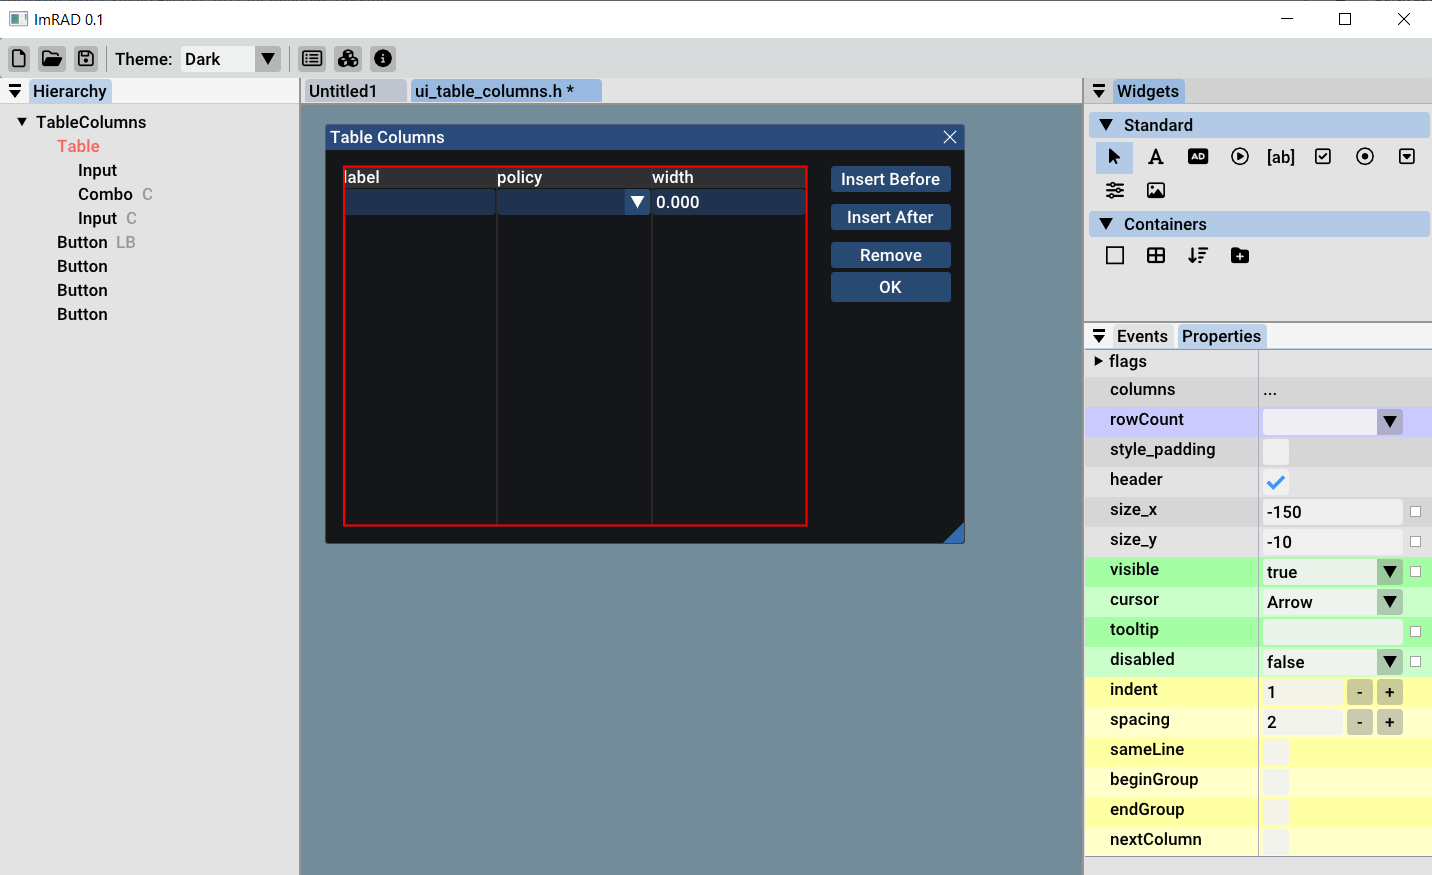
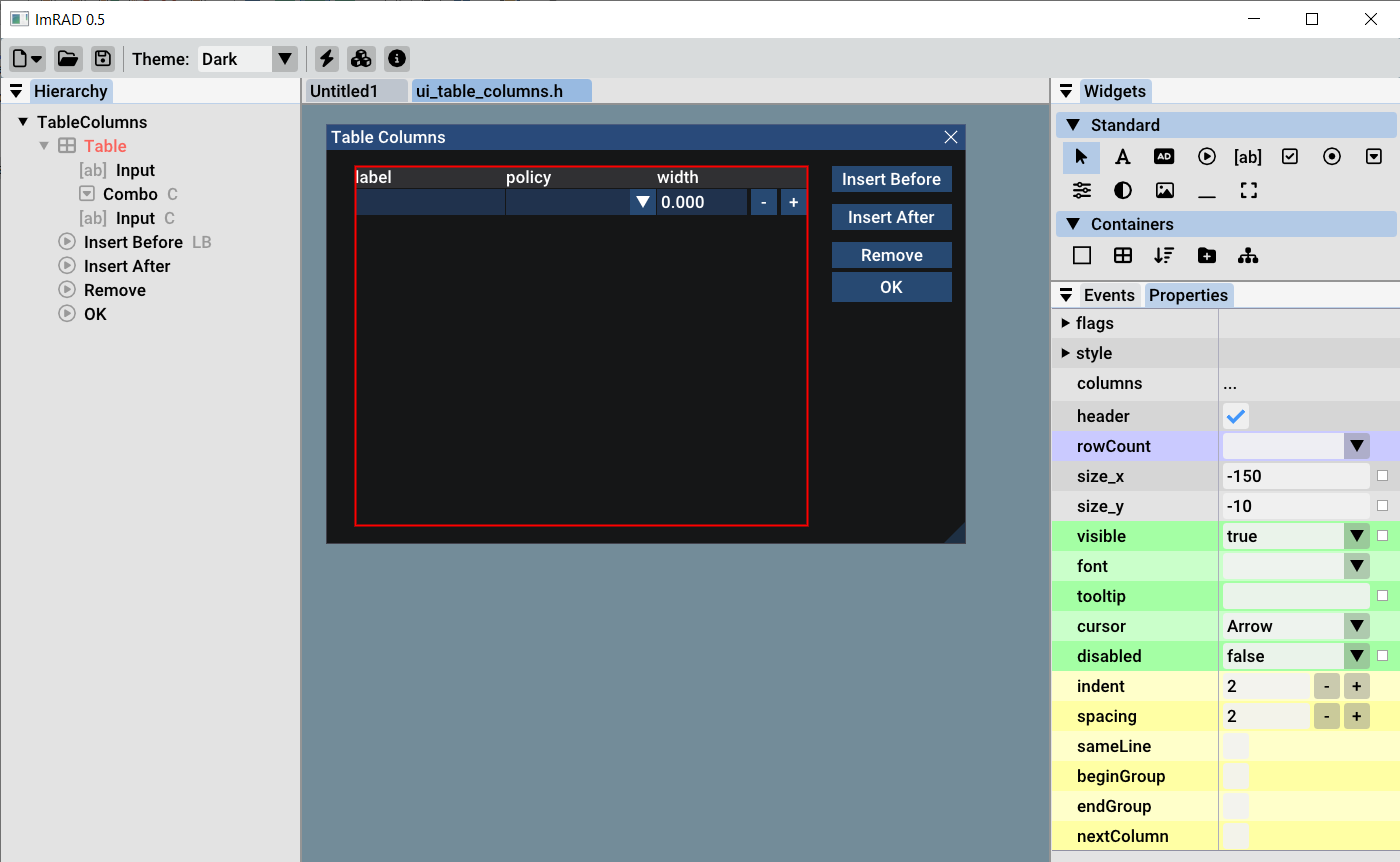
bump version

Changed region(s): [[0.7371, 0.0905, 1.0, 1.0], [0.0, 0.0, 0.7064, 1.0]]

diff --git a/src/utils.h b/src/utils.h
@@ -11,7 +11,7 @@ namespace fs = std::filesystem;
 namespace fs = std::experimental::filesystem;
 #endif
 
-inline const std::string VER_STR = "ImRAD 0.1";
+inline const std::string VER_STR = "ImRAD 0.5";
 inline const std::string GITHUB_STR = "github.com/tpecholt/imrad";
 
 
